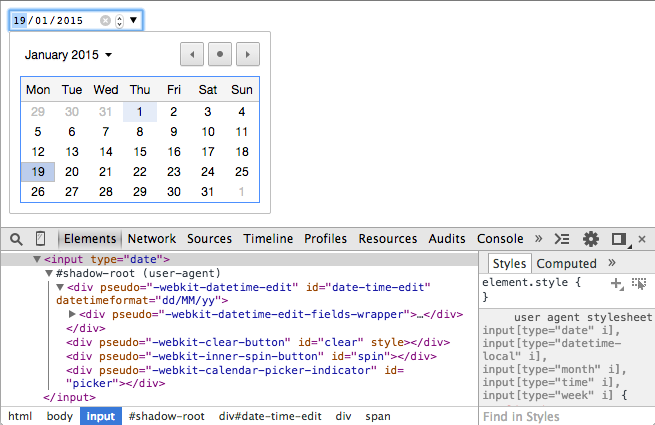
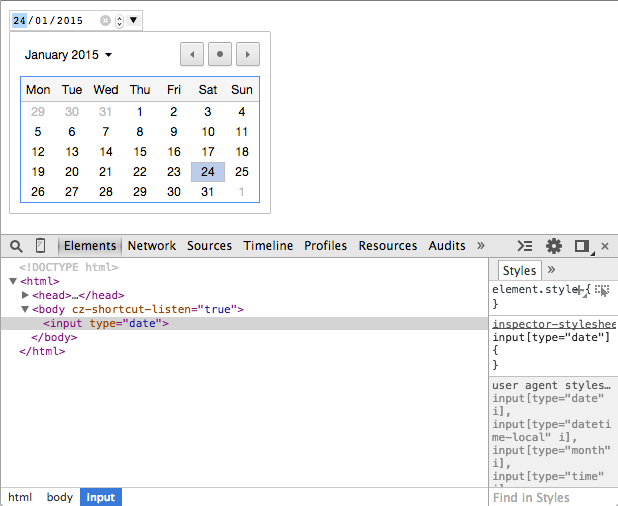
Shadow dom: refactoring

Changed region(s): [[0.0, 0.0, 1.0, 1.0]]

diff --git a/example/shadow-dom-1.html b/example/shadow-dom-1.html
@@ -1,0 +1,26 @@
+<html>
+<body>
+
+<div id="boomUnit">
+  <span class="unit-name">Grenadier</span>
+  <span class="training-time">15 minutes</span>
+  <span class="hq-level">16</span>
+</div>
+
+<template id="unitTemplate">
+  <div>
+    Unit name: <content select=".unit-name"></content> <br>
+    Training time: <content select=".training-time"></content> <br>
+    HQ Level: <content select=".hq-level"></content> <br>
+  </div>
+</template>
+
+<script>
+var shadow = document.getElementById('boomUnit').createShadowRoot();
+var template = document.getElementById('unitTemplate');
+shadow.appendChild(document.importNode(template.content, true));
+</script>
+
+
+</body>
+</html>

diff --git a/example/shadow-dom-2.html b/example/shadow-dom-2.html
@@ -1,0 +1,25 @@
+<html>
+<body>
+
+<div id="boomUnit">
+  <span class="unit-name">Grenadier</span>
+  <span class="training-time">15 minutes (training) </span>
+  <span class="hq-level">16 (HQ)</span>
+</div>
+
+<template id="unitTemplate">
+  <div>
+    Unit: <content select=".unit-name"></content> <br>
+    Qualities: <content select="span"></content>
+  </div>
+</template>
+
+<script>
+var shadow = document.getElementById('boomUnit').createShadowRoot();
+var template = document.getElementById('unitTemplate');
+shadow.appendChild(document.importNode(template.content, true));
+</script>
+
+
+</body>
+</html>

diff --git a/example/styling-0.html b/example/styling-0.html
@@ -1,0 +1,25 @@
+<html>
+<body>
+
+<button class="btn">Zooka</button>
+
+<template id="regionTemplate">
+  <style>
+    :host { text-transform: uppercase; }
+    :host(.btn) { color: blue; }
+    :host(:hover) { color: red; }
+  </style>
+  <div>
+    <content></content>
+  </div>
+</template>
+
+<script>
+var shadow = document.querySelector('button').createShadowRoot();
+var template = document.getElementById('regionTemplate');
+shadow.appendChild(document.importNode(template.content, true));
+</script>
+
+
+</body>
+</html>

diff --git a/example/shadow-dom-0.html b/example/shadow-dom-0.html
@@ -1,0 +1,23 @@
+<html>
+<body>
+
+<div id="boomBeachName">Rifleman</div>
+
+<template id="headquartersTemplate">
+  <style>
+    div {
+      color: red;
+    }
+  </style>
+  <div>My name is <content></content></div>
+</template>
+
+<script>
+  var shadow = document.getElementById('boomBeachName').createShadowRoot();
+  var template = document.getElementById('headquartersTemplate');
+  var clone = document.importNode(template.content, true);
+  shadow.appendChild(clone);
+</script>
+
+</body>
+</html>

diff --git a/talk.md b/talk.md
@@ -315,6 +315,8 @@ Un import HTML aujourd'hui c'est :
 
 #### Les développeurs doivent pouvoir agir<br> comme les éditeurs de navigateurs
 
+[Mark Dalgleish](http://markdalgleish.com/)
+
 --
 
 ### Vendor element
@@ -325,20 +327,28 @@ Un import HTML aujourd'hui c'est :
 
 --
 
+### Vendor element
+
+```<input type="date">```
+
+![Input date](image/input_date_shadow.png)
+
+--
+
 ## Shadow boundary
 
 --
 
-### Example
+### [Example](example/shadow-dom-0.html)
 
 Shadow host
 ```html
-<div id="nameTag">Bob</div>
+<div id="boomBeachName">Rifleman</div>
 ```
 
 Shadow root
 ```html
-<template id="nameTagTemplate">
+<template id="headquartersTemplate">
 <style>
    div { color: red; }
 </style>
@@ -349,78 +359,162 @@ Shadow root
 ```
 
 ```javascript
-var shadow = document.querySelector('#nameTag').createShadowRoot();
-var template = document.querySelector('#nameTagTemplate');
+var shadow = document.getElementById('boomBeachName').createShadowRoot();
+var template = document.getElementById('headquartersTemplate');
 var clone = document.importNode(template.content, true);
 shadow.appendChild(clone);
 ```
 
 --
 
+### Resultat
+
+Rendering
+
+![Rileman](image/shadow-dom-0.png)
+
+DOM Généré
+```html
+<div id="boomBeachName">
+  #shadow-root
+  |  <style>
+  |    div {
+  |      color: red;
+  |    }
+  |  </style>
+  |  <div>
+  |     My name is <content></content>
+  |  </div>
+  "Rifleman"
+</div>
+```
+
+--
+
 ## Insertion points
+
+```<content select="">```
+<br>
+<br>
 
 * sont les invitations pour le contenue
 * ne deplacent pas le DOM
 * projection de DOM
 
-<br>
-```<content select="">```
-
-
-
 --
 
-## Distributions
-
-A `distribution` is the mechanism that determines which nodes appear at each insertion point. [W3C](http://w3c.github.io/webcomponents/spec/shadow/#distributions)
-
---
-
-#### Simple Distribution
+### Distribution
 ![Distributions](image/distributions.png)
 
 --
 
-### Example #1
+### [Example #1](example/shadow-dom-1.html)
 
 Shadow host
 ```html
-<div id="nameTag">
-    <span class="name">Bob</span>
-    <span class="age">21</span>
+<div id="boomUnit">
+    <span class="unit-name">Grenadier</span>
+    <span class="training-time">15 minutes</span>
+    <span class="hq-level">16</span>
 </div>
 ```
 
-Template (insertion points)
+Shadow element
 ```html
-<template id="nameTagTemplate">
+<template id="unitTemplate">
 <div>
-    My name is <content select=".name"></content>.
-    I’m <content select=".age"></content> years old.
+    Unit name: <content select=".unit-name"></content> <br>
+    Training time: <content select=".training-time"></content> <br>
+    HQ Level: <content select=".hq-level"></content>
 </div>
 </template>
 ```
+
+```javascript
+var shadow = document.getElementById('boomUnit').createShadowRoot();
+var template = document.getElementById('unitTemplate');
+shadow.appendChild(document.importNode(template.content, true));
+```
+
 --
 
-### Example #2
+### [Resultat #1](example/shadow-dom-1.html)
+
+Rendering
+
+![Rileman](image/shadow-dom-1.png)
+
+DOM Généré
+```html
+<div id="boomUnit">
+  #shadow-root
+  |  <div>
+  |     Unit name: <content select=".unit-name"></content> <br>
+  |     Training time: <content select=".training-time"></content> <br>
+  |     HQ Level: <content select=".hq-level"></content> <br>
+  |  </div>
+  <span class="unit-name">Grenadier</span>
+  <span clas="training-time">15 minutes</span>
+  <span class="hq-level">16</span>
+</div>
+```
+
+--
+
+### [Example #2](example/shadow-dom-2.html)
 
 Shadow host
 ```html
-<div id="nameTag">
-    <span class="name">Bob</span>
-    <span class="age">21</span>
+<div id="boomUnit">
+    <span class="unit-name">Grenadier</span>
+    <span class="training-time">15 minutes (training) </span>
+    <span class="hq-level">16 (HQ)</span>
 </div>
 ```
 
-Template (insertion points)
+Shadow element
 ```html
-<template id="nameTagTemplate">
+<template id="unitTemplate">
 <div>
-    My name is <content select="span"></content>.
-    I’m <content select=".age"></content> years old.
+    Unit: <content select=".unit-name"></content> <br>
+    Qualities: <content select="span"></content>
 </div>
 </template>
 ```
+
+```javascript
+var shadow = document.getElementById('boomUnit').createShadowRoot();
+var template = document.getElementById('unitTemplate');
+shadow.appendChild(document.importNode(template.content, true));
+```
+
+--
+
+### [Resultat #2](example/shadow-dom-2.html)
+
+Rendering
+
+![Rileman](image/shadow-dom-2.png)
+
+DOM Généré
+```html
+<div id="boomUnit">
+  #shadow-root
+  |  <div>
+  |    Unit: <content select=".unit-name"></content> <br>
+  |    Qualities: <content select="span"></content>
+  |  </div>
+  <span class="unit-name">Grenadier</span>
+  <span class="training-time">15 minutes</span>
+  <span class="hq-level">16</span>
+</div>
+```
+
+--
+
+## [Shadow DOM Visualizer](http://html5-demos.appspot.com/static/shadowdom-visualizer/index.html)
+
+> By Eric Bidelman
 
 --
 
@@ -430,30 +524,41 @@ Template (insertion points)
 
 ### Shadow boundary
 
-* Selectors don't cross the shadow boundary
-* Style encapsulation from the outside world
+* Selectors ne traversent pas le shadow boundary
+* Encapsulation des styles du monde externe
 
 --
 
 ### Styling the host element
 
+[Example](example/styling-0.html)
+
 Host
 ```html
-<button class="btn">My Button</button>
+<button class="btn">Zooka</button>
 ```
 
 Shadow
 ```html
-<style>
- :host { text-transform: uppercase; }
- :host(.btn) { color: blue; }
- :host(:hover) { color: red; }
-</style>
+<template id="regionTemplate">
+  <style>
+    :host { text-transform: uppercase; }
+    :host(.btn) { color: blue; }
+    :host(:hover) { color: red; }
+  </style>
+  <div> <content></content> </div>
+</template>
+```
+
+```javascript
+var shadow = document.querySelector('button').createShadowRoot();
+var template = document.getElementById('regionTemplate');
+shadow.appendChild(document.importNode(template.content, true));
 ```
 
 --
 
-### Theming an element
+### Context (Thèmes)
 
 Host
 ```html
